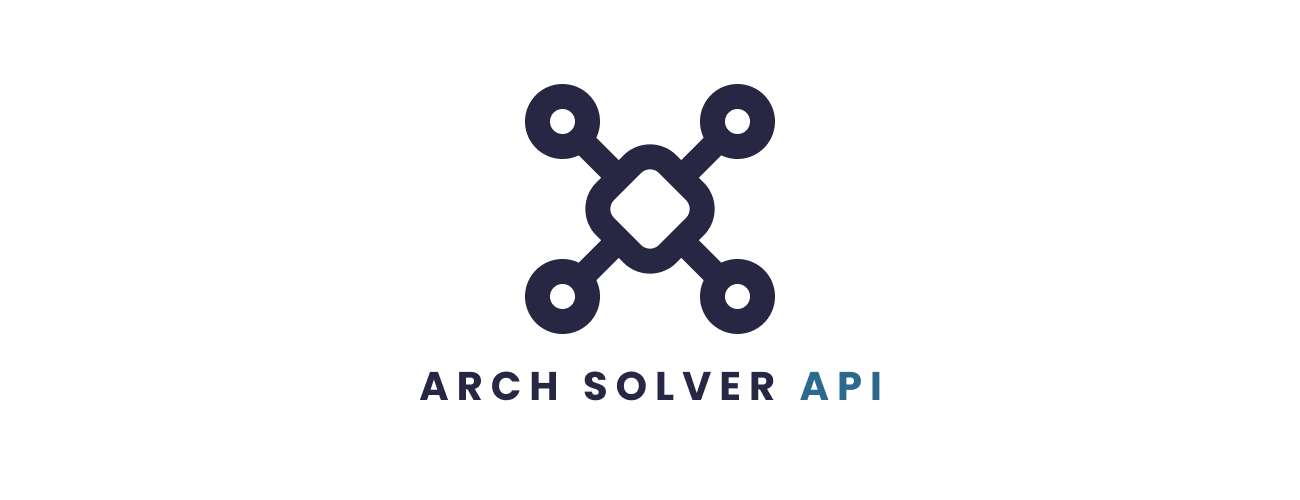
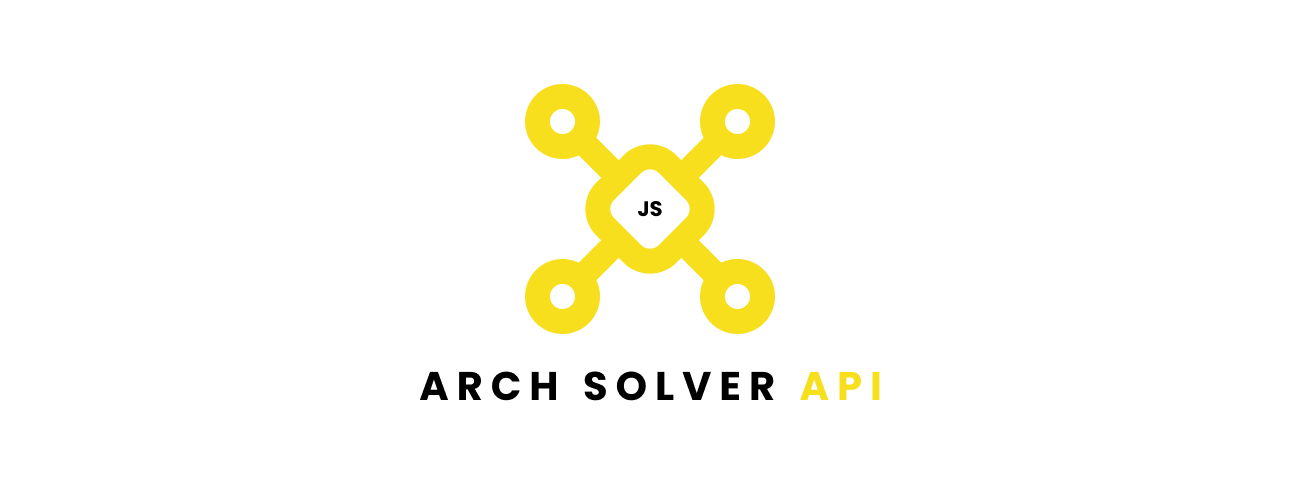
ArchSolver-API-JS

Changed region(s): [[0.4, 0.15, 0.6154, 0.69], [0.3077, 0.72, 0.6769, 0.81]]

diff --git a/README.md b/README.md
@@ -4,7 +4,7 @@
     <img src="./shared/assets/pictures/banner.png" alt="Arch Solver API">
 </div>
 
-**[Arch Solver API]()** es un marco de trabajo, que emplea una forma atersanal y personalizada de construír múltiples soluciones REST API con Node JS y TypeScript, tanto a pequeña como a gran escala. 
+**[Arch Solver API]()** es un marco de trabajo con esta versión orientada a JavaScript, que emplea una forma atersanal y personalizada de construír múltiples soluciones REST API con Node JS, tanto a pequeña como a gran escala. 
 
 El diseño de este marco de trabajo, integra las principales bases de diferentes arquitecturas, patrones de diseño y buenas practicas. Esto con el fin de generar un código organizado, modular y que respete la responsabilidad única de los recursos configurados en la aplicación.
 
@@ -14,13 +14,93 @@ La misión, es generar proyectos escalables, mantenibles y ajustable a las disti
     <i>✌🏻✨ Se el arquitecto de tus soluciones ✨✌🏻</i>
 </div>
 
-## **Marcos de Tabajo**
+## **Guía de Instalación**
 
-A continuación, se mostrarán las diferentes variantes de Arch Solver API:
+Para instalar esta aplicación en su desarrollo, siga los siguientes pasos:
 
-- **[Arch Solver API (JS)]()**: El marco de trabajo orientado totalmente a usar únicamente JavaScript. 
-  
-- **[Arch Solver API (TS)]()**: El marco de trabajo orientado a usar únicamente TypeScript.
+1. ✨ **Abrir una ventana terminal**.
+
+2. ✨ **Verifique si cuenta con Node JS instalado:**
+
+    ```sh
+    node -v
+    ```
+
+    > **NOTA**: En caso de no contar con el entorno de ejecución de Javascript, Node JS, acceda al siguiente enlace para su instalación o actualización:
+    > https://nodejs.org/es
+    > 
+    > Una vez instalado, ejecute el comando anterior para determinar si se realizo la instalación.
+
+
+3. ✨ **Clone el repositorio de `ArchSolver-API`**:
+
+    ```sh
+    git clone <pending...>
+    ```
+
+4. ✨ **Nos situamos en la raíz del proyecto**:
+
+    ```sh
+    cd "ArchSolver-API-JS"
+    ```
+
+5. ✨ **Instalamos los módulos de Node JS**:
+
+    ```sh
+    npm install
+    ```
+
+6. ✨ **Abrir el proyecto en un editor de código**:
+
+    > NOTA: Se recomienda que se utilice **[Visual Studio Code](https://code.visualstudio.com/download)**. 
+    >
+    > De tenerlo, use el comando **`code .`** para abrir el proyecto con VS Code.
+
+## **Configuración de Variables**
+
+Si usted a instalado la aplicación, ahora debe configurar las variables de entorno iniciales:
+
+1. ✨ **Ubique el archivo llamado `.env-example`.**
+
+2. ✨ **Haga una copia del `.env-example` y peguela en la raíz del proyecto.**
+
+3. ✨ **Renombre el archivo copiado a `.env`.**
+
+4. ✨ **Ingrese las siguientes variables:** 
+
+    ```js
+    #* <<< Variables de Entorno >>>
+    #* 1. Haga una copia del `.env-example` y peguela en la raíz del proyecto (es vital que este en la raíz).
+    #* 2. Renombre el archivo copiado a ".env" y la aplicación hará el resto.
+
+    #* !!ProTip: Se recomienda llevar un orden controlado en las variables de entorno que vayan creando.
+
+    <pending...>
+    ```
+
+## **Inicio de Servidor**
+
+Una vez configuradas las variables de entorno, ejecute el servidor en modo **desarrollo**:
+
+```sh
+npm run dev
+```
+
+La consola, debería regresar una respuesta como esta:
+
+```sh
+💙 ArchSolver-API v0.1.0-alpha has been started...
+```
+
+> Si usted ha conseguido el resultado anterior, puede tomar la dirección URL proporcionada en la consola y hacer pruebas con un cliente API de confianza (**[Postman](https://www.postman.com/downloads/)**, **[Thunder Client](https://www.thunderclient.com/)**, **[Insomnia](https://insomnia.rest/)**, etc).
+
+## **Tópicos**
+
+Conoce otros aspectos internos del proyecto en este repositorio:
+
+- ✨ **[Convención de Commits]()**
+- ✨ **[Esquema de Versionamiento]()**
+- ✨ **[Variables de Entorno]()**
 
 ---
 © 2024 Daniel-Dev23
